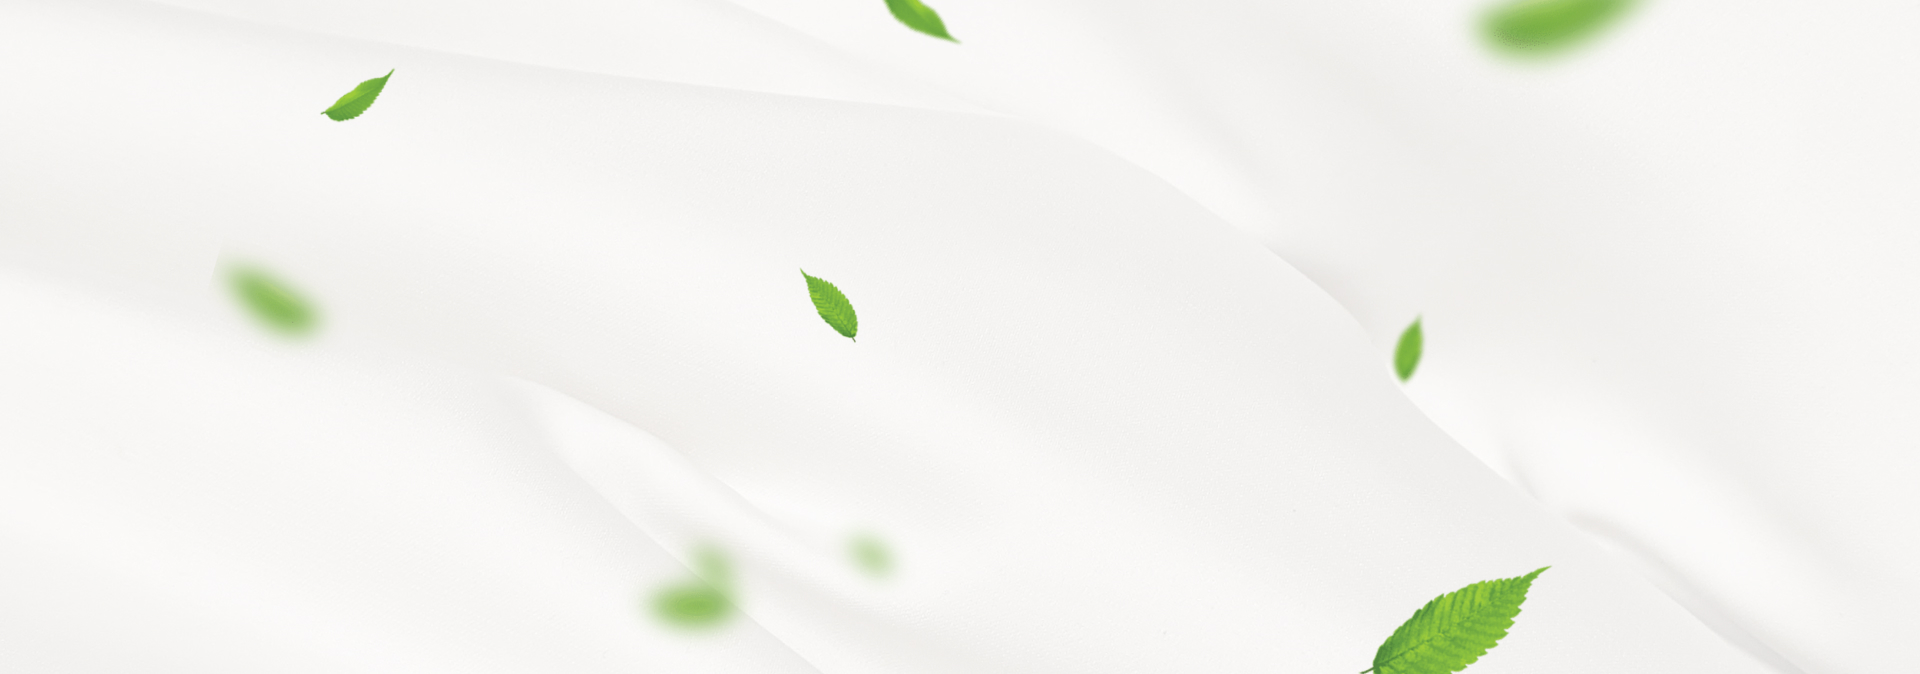
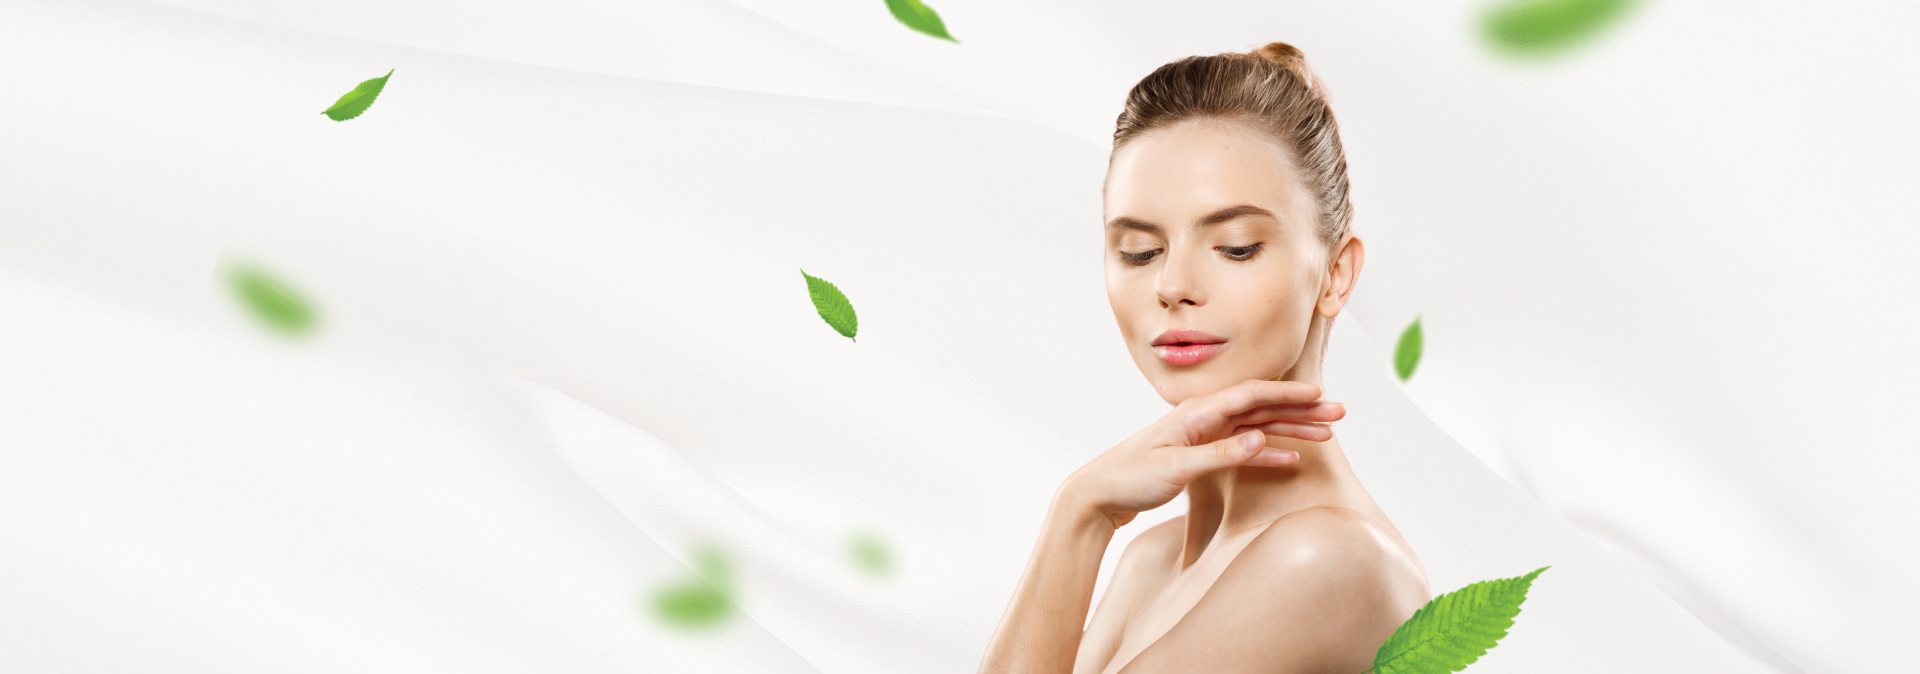
fix: made a picture in the welcome-section as a background

Changed region(s): [[0.5, 0.0623, 0.75, 1.0]]

diff --git a/styles/welcome-section.css b/styles/welcome-section.css
@@ -1,7 +1,8 @@
 .welcome-section {
   background-image: url("./assets/images/welcome-section/background.jpg");
   background-repeat: no-repeat;
-  background-size: cover; }
+  background-size: cover;
+  background-position: right; }
   .welcome-section .welcome-section__container {
     display: flex;
     align-items: center; }
@@ -32,23 +33,6 @@
           font-size: 1.35rem; } }
       .welcome-section .welcome-section__container .welcome-section__description .welcome-section__button {
         padding: 20.5px 46px; }
-    .welcome-section .welcome-section__container .welcome-section__image {
-      width: 49.5%;
-      aspect-ratio: 603/673;
-      position: relative;
-      min-width: 49.5%; }
-      .welcome-section .welcome-section__container .welcome-section__image img {
-        position: absolute;
-        top: 0;
-        left: 0;
-        bottom: 0;
-        right: 0;
-        width: 100%;
-        height: 100%;
-        object-fit: cover; }
-    @media (max-width: 774px) {
-      .welcome-section .welcome-section__container .welcome-section__image {
-        width: 100%; } }
   @media (max-width: 774px) {
     .welcome-section .welcome-section__container {
       flex-direction: column;

diff --git a/main.css b/main.css
@@ -501,6 +501,7 @@
   background-image: url("./assets/images/welcome-section/background.jpg");
   background-repeat: no-repeat;
   background-size: cover;
+  background-position: right;
 }
 .welcome-section .welcome-section__container {
   display: -webkit-box;
@@ -547,28 +548,6 @@
 }
 .welcome-section .welcome-section__container .welcome-section__description .welcome-section__button {
   padding: 20.5px 46px;
-}
-.welcome-section .welcome-section__container .welcome-section__image {
-  width: 49.5%;
-  aspect-ratio: 603/673;
-  position: relative;
-  min-width: 49.5%;
-}
-.welcome-section .welcome-section__container .welcome-section__image img {
-  position: absolute;
-  top: 0;
-  left: 0;
-  bottom: 0;
-  right: 0;
-  width: 100%;
-  height: 100%;
-  -o-object-fit: cover;
-     object-fit: cover;
-}
-@media (max-width: 774px) {
-  .welcome-section .welcome-section__container .welcome-section__image {
-    width: 100%;
-  }
 }
 @media (max-width: 774px) {
   .welcome-section .welcome-section__container {

diff --git a/styles/welcome-section.scss b/styles/welcome-section.scss
@@ -2,6 +2,7 @@
     background-image: url("./assets/images/welcome-section/background.jpg");
     background-repeat: no-repeat;
     background-size: cover;
+    background-position: right;
 
     .welcome-section__container {
         display: flex;
@@ -52,31 +53,6 @@
                 padding: 20.5px 46px;
             }
         }
-
-        .welcome-section__image {
-            width: 49.5%;
-            aspect-ratio: 603/673;
-            position: relative;
-            min-width: 49.5%;
-
-            img {
-                position: absolute;
-                top: 0;
-                left: 0;
-                bottom: 0;
-                right: 0;
-                width: 100%;
-                height: 100%;
-                object-fit: cover;
-            }
-        }
-
-        @media (max-width: 774px) {
-            .welcome-section__image {
-                width: 100%;
-            }
-        }
-        
     }
 
     @media (max-width: 774px) {

diff --git a/index.html b/index.html
@@ -293,9 +293,6 @@
                     </p>
                     <button class="welcome-section__button _btn">ЗАПИСАТЬСЯ</button>
                 </div>
-                <div class="welcome-section__image">
-                    <img src="./assets/images/welcome-section/image.svg" alt="img">
-                </div>
             </div>
         </section>
         <!-- PROMOTIONS -->
